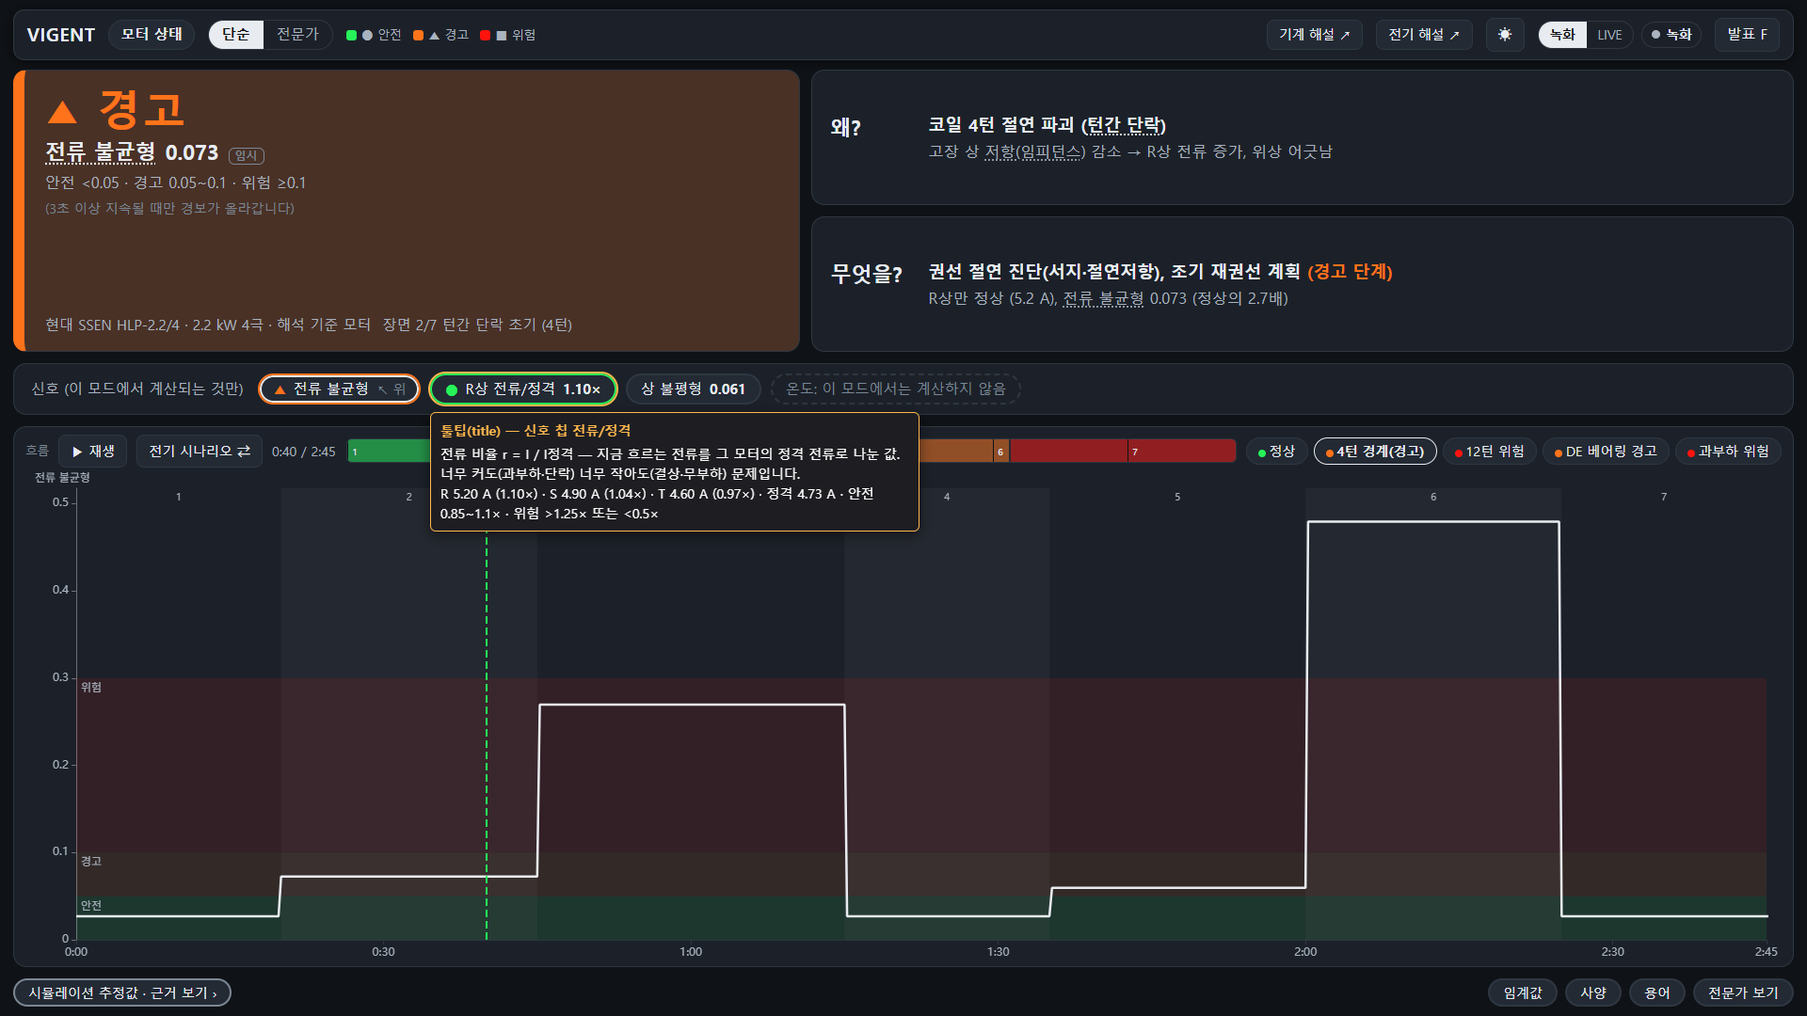
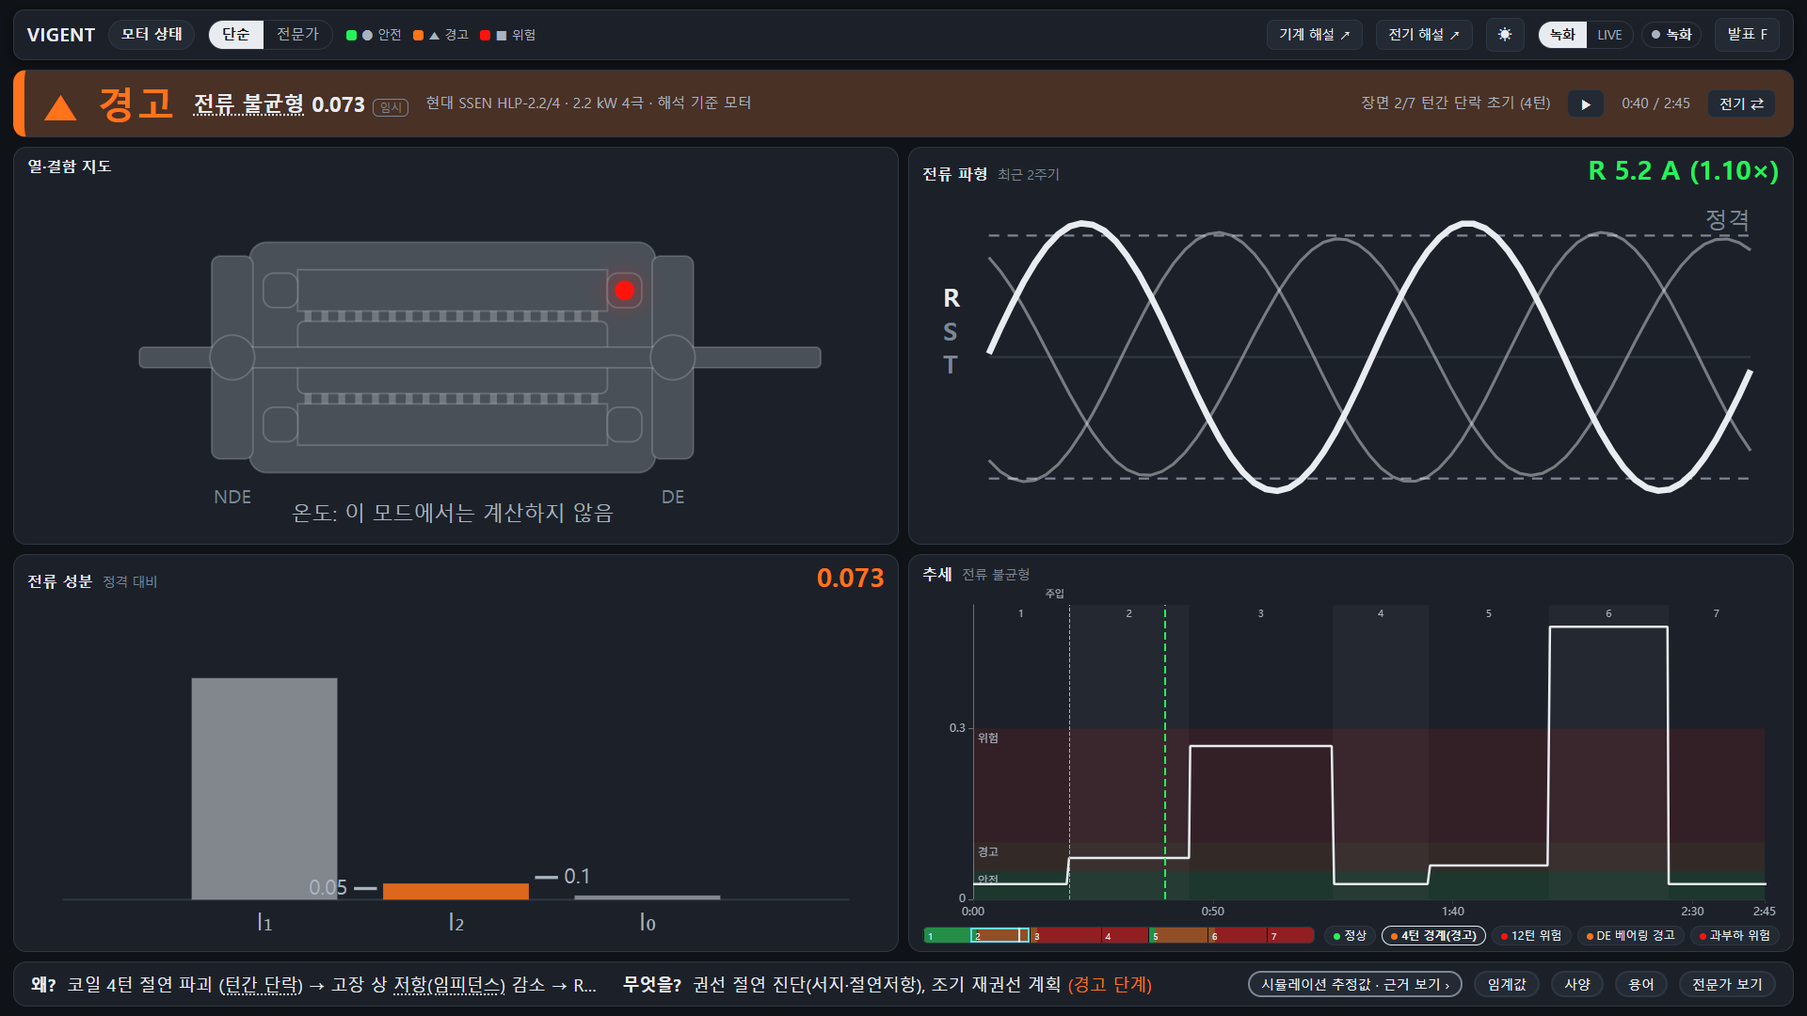
media: dashboard captures on tile layout + Maxwell path resolution after desktop reorg
단순 보기 1b(타일) 기준 대시보드 사진 12장·워크스루·side-by-side 재캡처(index/meta/README 재생성).
바탕화면 정리로 옮겨진 Maxwell 저장소(바탕 화면\모터\권상모터_3D모델링)를 _maxwell_root()(MAXWELL_ROOT → 옛 경로 → 새 경로)로 찾도록 도구·테스트 기본 경로 수정; 미디어팩 사본은 옮겨진 폴더에 동기화.

diff --git a/motor_dt_viz/tools/media/capture_all.py b/motor_dt_viz/tools/media/capture_all.py
@@ -27,12 +27,23 @@ import shutil
 import subprocess
 import sys
 
+def _maxwell_root() -> str:
+    """Maxwell 저장소 위치: MAXWELL_ROOT 환경변수 → 바탕 화면\\권상모터_3D모델링 → 바탕 화면\\모터\\권상모터_3D모델링 (2026-10-26 바탕화면 정리로 이동)."""
+    env = os.environ.get("MAXWELL_ROOT")
+    if env:
+        return env
+    desk = os.path.join(os.path.expanduser("~"), "OneDrive", "바탕 화면")
+    for c in (os.path.join(desk, "권상모터_3D모델링"), os.path.join(desk, "모터", "권상모터_3D모델링")):
+        if os.path.isdir(c):
+            return c
+    return os.path.join(desk, "모터", "권상모터_3D모델링")
+
 HERE = os.path.dirname(os.path.abspath(__file__))
 VIZ = os.path.abspath(os.path.join(HERE, "..", ".."))
 REPO = os.path.abspath(os.path.join(VIZ, ".."))
 sys.path.insert(0, VIZ)
 ISAAC_PY = r"C:\ISSACS~1\python.bat"
-MAXWELL = os.environ.get("MAXWELL_ROOT", os.path.join(os.path.expanduser("~"), "OneDrive", "바탕 화면", "권상모터_3D모델링"))
+MAXWELL = _maxwell_root()
 FONT = r"C:\Windows\Fonts\malgun.ttf"
 FONT_B = r"C:\Windows\Fonts\malgunbd.ttf"
 DATE = "20261026"
@@ -548,7 +559,8 @@ def write_readme(root: str, date: str, meta: dict, sections: dict):
 
 def cmd_desktop(a):
     """바탕화면 사본: ~/OneDrive/바탕 화면/M1_미디어팩_<날짜>/ (사용자 요청 2026-10-26, 저장소 사본과 같은 내용)."""
-    src = out_dir(a.date); dst = os.path.join(os.path.expanduser("~"), "OneDrive", "바탕 화면", f"M1_미디어팩_{a.date}")
+    src = out_dir(a.date); desk = os.path.join(os.path.expanduser("~"), "OneDrive", "바탕 화면")
+    dst = next((d for d in (os.path.join(desk, "모터", f"M1_미디어팩_{a.date}"), os.path.join(desk, f"M1_미디어팩_{a.date}")) if os.path.isdir(d)), os.path.join(desk, "모터", f"M1_미디어팩_{a.date}"))   # 사용자가 옮긴 폴더가 있으면 거기에
     shutil.copytree(src, dst, dirs_exist_ok=True)
     n = sum(len(f) for _, _, f in os.walk(dst)); mb = sum(os.path.getsize(os.path.join(r, f)) for r, _, fs in os.walk(dst) for f in fs) / 1e6
     print(f"desktop: {dst} ({n} files, {mb:.1f} MB)")

diff --git a/motor_dt_viz/tools/electrical/verify_lut_integration.py b/motor_dt_viz/tools/electrical/verify_lut_integration.py
@@ -21,6 +21,17 @@ import copy
 import json
 import math
 import os
+
+def _maxwell_root() -> str:
+    """Maxwell 저장소 위치: MAXWELL_ROOT 환경변수 → 바탕 화면\\권상모터_3D모델링 → 바탕 화면\\모터\\권상모터_3D모델링 (2026-10-26 바탕화면 정리로 이동)."""
+    env = os.environ.get("MAXWELL_ROOT")
+    if env:
+        return env
+    desk = os.path.join(os.path.expanduser("~"), "OneDrive", "바탕 화면")
+    for c in (os.path.join(desk, "권상모터_3D모델링"), os.path.join(desk, "모터", "권상모터_3D모델링")):
+        if os.path.isdir(c):
+            return c
+    return os.path.join(desk, "모터", "권상모터_3D모델링")
 import subprocess
 import sys
 import time
@@ -38,7 +49,7 @@ from engine.config_loader import load  # noqa: E402
 from engine.current_model import CurrentModel  # noqa: E402
 from engine.lut_source import LutSource, default_lut_path  # noqa: E402
 
-MCCM_RESULTS = os.path.join(os.environ.get("MAXWELL_ROOT", r"C:\Users\sunwu\OneDrive\바탕 화면\권상모터_3D모델링"), "maxwell", "results", "mccm_results.json")   # D1: MAXWELL_ROOT 환경변수
+MCCM_RESULTS = os.path.join(_maxwell_root(), "maxwell", "results", "mccm_results.json")   # D1: MAXWELL_ROOT 환경변수
 REPORT = os.path.join(VIZ, "docs", "electrical", "lut_integration_report.md")
 FORBIDDEN = ["motor_dt_viz/config/thresholds.yaml", "motor_dt_viz/config/motors", "motor_dt_viz/engine/thresholds.py",
              "motor_dt_viz/config/live.yaml", "motor_dt_viz/tools/firewall_rules.ps1"]

diff --git a/motor_dt_viz/tools/verify/build_analysis_reference.py b/motor_dt_viz/tools/verify/build_analysis_reference.py
@@ -18,6 +18,17 @@ import hashlib
 import json
 import math
 import os
+
+def _maxwell_root() -> str:
+    """Maxwell 저장소 위치: MAXWELL_ROOT 환경변수 → 바탕 화면\\권상모터_3D모델링 → 바탕 화면\\모터\\권상모터_3D모델링 (2026-10-26 바탕화면 정리로 이동)."""
+    env = os.environ.get("MAXWELL_ROOT")
+    if env:
+        return env
+    desk = os.path.join(os.path.expanduser("~"), "OneDrive", "바탕 화면")
+    for c in (os.path.join(desk, "권상모터_3D모델링"), os.path.join(desk, "모터", "권상모터_3D모델링")):
+        if os.path.isdir(c):
+            return c
+    return os.path.join(desk, "모터", "권상모터_3D모델링")
 import shutil
 import sys
 import time
@@ -33,7 +44,7 @@ from engine.config_loader import load, val  # noqa: E402
 from engine.current_model import CurrentModel  # noqa: E402
 from engine.thermal_model import ThermalModel  # noqa: E402
 
-MAXWELL_DEFAULT = os.environ.get("MAXWELL_ROOT", r"C:\Users\sunwu\OneDrive\바탕 화면\권상모터_3D모델링")   # D1: MAXWELL_ROOT 환경변수 (docs/REPRODUCE.md)
+MAXWELL_DEFAULT = _maxwell_root()   # D1: MAXWELL_ROOT 환경변수 (docs/REPRODUCE.md)
 SCENARIOS = {   # 시나리오 → (턴, R_f, 부하, MCCM 케이스 이름)
     "healthy": (0, None, 1.0, "C0"), "itsc_4turn": (4, 0.1, 1.0, "C1"), "itsc_8turn": (8, 0.1, 1.0, None), "itsc_12turn": (12, 0.1, 1.0, "C3"),
     "itsc_16turn": (16, 0.1, 1.0, "C4"), "itsc_4turn_resistive": (4, 1.0, 1.0, "C1-R"), "itsc_4turn_halfload": (4, 0.1, 0.5, "C1-L"),

diff --git a/motor_dt_viz/tools/verify/sim_vs_maxwell_xlsx.py b/motor_dt_viz/tools/verify/sim_vs_maxwell_xlsx.py
@@ -14,6 +14,17 @@ import hashlib
 import json
 import math
 import os
+
+def _maxwell_root() -> str:
+    """Maxwell 저장소 위치: MAXWELL_ROOT 환경변수 → 바탕 화면\\권상모터_3D모델링 → 바탕 화면\\모터\\권상모터_3D모델링 (2026-10-26 바탕화면 정리로 이동)."""
+    env = os.environ.get("MAXWELL_ROOT")
+    if env:
+        return env
+    desk = os.path.join(os.path.expanduser("~"), "OneDrive", "바탕 화면")
+    for c in (os.path.join(desk, "권상모터_3D모델링"), os.path.join(desk, "모터", "권상모터_3D모델링")):
+        if os.path.isdir(c):
+            return c
+    return os.path.join(desk, "모터", "권상모터_3D모델링")
 import shutil
 import sys
 import time
@@ -27,7 +38,7 @@ OUT_DIR = os.path.join(REPO, "docs", "verification")
 sys.path.insert(0, HERE)
 from sim_vs_analysis import load_run, steady, fnum  # noqa: E402  (정상 상태 평균 규칙 재사용)
 
-MAXWELL = os.environ.get("MAXWELL_ROOT", r"C:\Users\sunwu\OneDrive\바탕 화면\권상모터_3D모델링")
+MAXWELL = _maxwell_root()
 SCEN = ["healthy", "itsc_4turn", "itsc_8turn", "itsc_12turn", "itsc_16turn", "itsc_4turn_resistive", "itsc_4turn_halfload"]
 TURNS = {"healthy": 0, "itsc_4turn": 4, "itsc_8turn": 8, "itsc_12turn": 12, "itsc_16turn": 16, "itsc_4turn_resistive": 4, "itsc_4turn_halfload": 4}
 RF = {"healthy": 0.1, "itsc_4turn": 0.1, "itsc_8turn": 0.1, "itsc_12turn": 0.1, "itsc_16turn": 0.1, "itsc_4turn_resistive": 1.0, "itsc_4turn_halfload": 0.1}

diff --git a/motor_dt_viz/tools/electrical/import_lut.py b/motor_dt_viz/tools/electrical/import_lut.py
@@ -9,13 +9,24 @@ import argparse
 import hashlib
 import json
 import os
+
+def _maxwell_root() -> str:
+    """Maxwell 저장소 위치: MAXWELL_ROOT 환경변수 → 바탕 화면\\권상모터_3D모델링 → 바탕 화면\\모터\\권상모터_3D모델링 (2026-10-26 바탕화면 정리로 이동)."""
+    env = os.environ.get("MAXWELL_ROOT")
+    if env:
+        return env
+    desk = os.path.join(os.path.expanduser("~"), "OneDrive", "바탕 화면")
+    for c in (os.path.join(desk, "권상모터_3D모델링"), os.path.join(desk, "모터", "권상모터_3D모델링")):
+        if os.path.isdir(c):
+            return c
+    return os.path.join(desk, "모터", "권상모터_3D모델링")
 import re
 import sys
 import time
 
 HERE = os.path.dirname(os.path.abspath(__file__))
 ROOT = os.path.abspath(os.path.join(HERE, "..", ".."))
-MAXWELL_ROOT = os.environ.get("MAXWELL_ROOT", r"C:\Users\sunwu\OneDrive\바탕 화면\권상모터_3D모델링")   # D1(2026-10-21): 환경변수로 Maxwell 저장소 위치 지정 (docs/REPRODUCE.md)
+MAXWELL_ROOT = _maxwell_root()   # D1(2026-10-21): 환경변수로 Maxwell 저장소 위치 지정 (docs/REPRODUCE.md)
 DEFAULT_SRC = os.path.join(MAXWELL_ROOT, "maxwell", "results", "mccm_lut.json")
 OUT_DIR = os.path.join(ROOT, "data", "electrical")
 

diff --git a/motor_dt_viz/tests/test_lut_source.py b/motor_dt_viz/tests/test_lut_source.py
@@ -9,7 +9,9 @@ import pytest
 from engine.lut_source import LutSource, default_lut_path
 
 ROOT = os.path.dirname(os.path.dirname(os.path.abspath(__file__)))
-MCCM_RESULTS = r"C:\Users\sunwu\OneDrive\바탕 화면\권상모터_3D모델링\maxwell\results\mccm_results.json"
+_DESK = os.path.join(os.path.expanduser("~"), "OneDrive", "바탕 화면")
+_MAXWELL = os.environ.get("MAXWELL_ROOT") or next((c for c in (os.path.join(_DESK, "권상모터_3D모델링"), os.path.join(_DESK, "모터", "권상모터_3D모델링")) if os.path.isdir(c)), os.path.join(_DESK, "모터", "권상모터_3D모델링"))
+MCCM_RESULTS = os.path.join(_MAXWELL, "maxwell", "results", "mccm_results.json")   # 2026-10-26: 바탕화면 정리로 모터/ 아래로 이동 — 환경변수 → 옛 경로 → 새 경로
 
 
 @pytest.fixture(scope="module")

diff --git a/motor_dt_viz/tests/test_sim_vs_maxwell_xlsx.py b/motor_dt_viz/tests/test_sim_vs_maxwell_xlsx.py
@@ -85,4 +85,9 @@ def test_desktop_copy_exists(sm):
     p = sm.get("desktop_copy")
     if not p:
         pytest.skip("바탕화면 사본 생략(--no-desktop)")
-    assert os.path.exists(p) and os.path.getsize(p) > 10_000
+    desk = os.path.join(os.path.expanduser("~"), "OneDrive", "바탕 화면")
+    cands = [p, os.path.join(desk, "모터", os.path.basename(p))]            # 2026-10-26: 사용자가 바탕화면을 정리해 모터/ 로 옮김
+    hit = next((c for c in cands if os.path.exists(c)), None)
+    if hit is None:
+        pytest.skip(f"바탕화면 사본이 옮겨지거나 지워짐: {cands}")
+    assert os.path.getsize(hit) > 10_000

diff --git a/docs/media/20261026/index.md b/docs/media/20261026/index.md
@@ -1,9 +1,9 @@
 # 보고용 미디어 팩 — 2026-10-26
 
-M1 (HLP-2.2/4) 디지털 트윈 — Isaac Sim 4.5 장면·HUD·대시보드·해석 그림. 커밋 DT `166ba85` · Maxwell `3c4e22e` · 시드 없음(결정적) · 배속 1×.
+M1 (HLP-2.2/4) 디지털 트윈 — Isaac Sim 4.5 장면·HUD·대시보드·해석 그림. 커밋 DT `5e199d5` · Maxwell `3c4e22e` · 시드 없음(결정적) · 배속 1×.
 모든 숫자는 엔진 출력(state.csv)·검증 산출물·LUT 값이며 연출용 숫자는 없다. 파일명은 ASCII, 설명은 이 표의 캡션. 규격·재현·수동 캡처 체크리스트는 `README.md`.
 
-![contact sheet](contact_sheet.png)  (57 장 썸네일)
+![contact sheet](contact_sheet.png)  (58 장 썸네일)
 
 ## Isaac Sim 사진 (13 장) — `isaac/`
 
@@ -41,19 +41,20 @@ M1 (HLP-2.2/4) 디지털 트윈 — Isaac Sim 4.5 장면·HUD·대시보드·해
 
 | 파일 | 해상도 | URL | 캡션 | 22 kW 문구 |
 |---|---|---|---|---|
-| [01_simple_home_4turn.png](dashboard/01_simple_home_4turn.png) | 1920x1080 | `/?r=1793001110261#/status?m=M1&t=40` | 단순 보기 첫 화면 — 경고 · 전류 불균형 0.073 · 왜?/무엇을? · 신호 칩 · 흐름 (전기 40 s, 턴간 단락 4턴) | 없음 |
-| [02_hero_term_tooltip.png](dashboard/02_hero_term_tooltip.png) | 1920x1080 | `/?r=1793001110261#/status?m=M1&t=40` | 영웅 원인 신호 '전류 불균형' 의 툴팁(정식 용어 역상 전류비 I₂/I₁ + 설명)을 오버레이로 표시 — 툴팁 원문: “역상 전류비 I₂/I₁ — 세 가닥 전류가 서로 얼마나 틀어졌는지 나타내는 비율. 권선 단락·전압 불평형에서 커집니다.” | 없음 |
-| [03_signal_chip_tooltip.png](dashboard/03_signal_chip_tooltip.png) | 1920x1080 | `/?r=1793001110261#/status?m=M1&t=40` | 신호 띠 '전류/정격' 칩 툴팁 — 상별 전류(A)·정격·임계 구간을 오버레이로 표시 — 툴팁 원문: “전류 비율 r = I / I정격 — 지금 흐르는 전류를 그 모터의 정격 전류로 나눈 값. 너무 커도(과부하·단락) 너무 작아도(결상·무부하) 문제입니다.
-R 5.20 A (1.10×) · S 4.90 A (1.04×) · T 4.60 A (0.97×) · 정격 4.73 A · 안전 0.85~1.1× · 위험 >1.25× 또는 <0.5×” | 없음 |
-| [04_simple_12turn_danger.png](dashboard/04_simple_12turn_danger.png) | 1920x1080 | `/?r=1793001113519#/status?m=M1&t=60` | 단순 보기 — 위험 · 12턴 (60 s): 전류 불균형 0.270, 무엇을? 정지 후 재권선 | 없음 |
-| [05_simple_healthy.png](dashboard/05_simple_healthy.png) | 1920x1080 | `/?r=1793001116664#/status?m=M1&t=15` | 단순 보기 — 안전 · 정상 (15 s): 기준선, 전류 불균형 0.027 | 없음 |
-| [06_evidence_drawer_table.png](dashboard/06_evidence_drawer_table.png) | 1920x1080 | `/?r=1793001119814#/status?m=M1&t=40&drawer=1` | 근거 서랍 ① 정직성 4줄 ② 해석 근거 비교 — 시뮬값 있는 행만(결함분·I₂/I_n·I_f·P_loop 채워짐, — 1행 접힘) | 보임 |
-| [07_evidence_drawer_trace.png](dashboard/07_evidence_drawer_trace.png) | 1920x1080 | `/?r=1793001119814#/status?m=M1&t=40&drawer=1` | 근거 서랍 ③ 근거 사슬(표시량 → 엔진 → 파일 sha → 해석 단계 → 등급) ④ 한계 | 보임 |
-| [08_thresholds_sheet.png](dashboard/08_thresholds_sheet.png) | 1920x1080 | `/?r=1793001124142#/status?m=M1&t=40&tab=thr` | 임계값 기준표 시트 — 안전/경고/위험 경계 + 근거 + 쉬운 설명 열 | 없음 |
-| [09_simple_mech_bearing.png](dashboard/09_simple_mech_bearing.png) | 1920x1080 | `/?r=1793001127789#/status?m=M1&t=40&mode=mechanical` | 단순 보기 기계 모드 — DE 베어링 열화 장면(40 s): 온도·진동·베어링 칩, DE 베어링 온도 추세 | 없음 |
-| [10_expert_view.png](dashboard/10_expert_view.png) | 1920x1080 | `/?r=1793001131425#/status?m=M1&t=40&view=expert` | 전문가 보기(기존 보드) — 카드·게이지·원인과 조치·해석 근거 비교(엔진 값 채움)·추세·기준표 | 보임 |
-| [11_provisional_tag_tooltip.png](dashboard/11_provisional_tag_tooltip.png) | 1920x1080 | `/?r=1793001135106#/status?m=M1&t=40` | 영웅 '임시' 태그 툴팁(실측 기준선 확보 전까지 참고 기준)을 오버레이로 표시 — 툴팁 원문: “실측 기준선 확보 전까지 참고 기준입니다” | 없음 |
-| [12_export_csv.png](dashboard/12_export_csv.png) | 1920x1080 | `/?r=1793001138254#/status?m=M1&t=40&drawer=1` | 근거 서랍 '비교 내보내기' 직후 — 다운로드 파일 export_20261026_165221.csv (V2 형식 CSV, 4턴 40 s) | 보임 |
+| [01_simple_home_4turn.png](dashboard/01_simple_home_4turn.png) | 1920x1080 | `/?r=1793019536616#/status?m=M1&t=40` | 단순 보기 첫 화면 — 상태 띠(경고 · 전류 불균형 0.073) + 그림 타일 4(열·결함 지도 · 전류 파형 · 전류 성분 · 추세) + 하단 띠(왜/무엇을/근거) (전기 40 s, 턴간 단락 4턴) | 없음 |
+| [02_hero_term_tooltip.png](dashboard/02_hero_term_tooltip.png) | 1920x1080 | `/?r=1793019536616#/status?m=M1&t=40` | 상태 띠 원인 신호 '전류 불균형' 의 툴팁(정식 용어 역상 전류비 I₂/I₁ + 설명)을 오버레이로 표시 — 툴팁 원문: “역상 전류비 I₂/I₁ — 세 가닥 전류가 서로 얼마나 틀어졌는지 나타내는 비율. 권선 단락·전압 불평형에서 커집니다.” | 없음 |
+| [03_threshold_tooltip.png](dashboard/03_threshold_tooltip.png) | 1920x1080 | `/?r=1793019536616#/status?m=M1&t=40` | 상태 띠 원인 값 툴팁 — 임계 구간(안전·경고·위험)과 "3초 이상 지속될 때만 경보" 각주를 오버레이로 표시 — 툴팁 원문: “역상 전류비 I₂/I₁ — 세 가닥 전류가 서로 얼마나 틀어졌는지 나타내는 비율. 권선 단락·전압 불평형에서 커집니다.
+안전 <0.05 · 경고 0.05~0.1 · 위험 ≥0.1
+3초 이상 지속될 때만 경보가 올라갑니다” | 없음 |
+| [04_simple_12turn_danger.png](dashboard/04_simple_12turn_danger.png) | 1920x1080 | `/?r=1793019539914#/status?m=M1&t=60` | 단순 보기 — 위험 · 12턴 (60 s): 전류 불균형 0.270, R상 파형 굵게(1.56×), I₂ 막대 빨강, 단락 코일 발광 점 커짐 | 없음 |
+| [05_simple_healthy.png](dashboard/05_simple_healthy.png) | 1920x1080 | `/?r=1793019543091#/status?m=M1&t=15` | 단순 보기 — 안전 · 정상 (15 s): 기준선, 전류 불균형 0.027 | 없음 |
+| [06_evidence_drawer_table.png](dashboard/06_evidence_drawer_table.png) | 1920x1080 | `/?r=1793019546281#/status?m=M1&t=40&drawer=1` | 근거 서랍 ① 정직성 4줄 ② 해석 근거 비교 — 시뮬값 있는 행만(결함분·I₂/I_n·I_f·P_loop 채워짐, — 1행 접힘) | 보임 |
+| [07_evidence_drawer_trace.png](dashboard/07_evidence_drawer_trace.png) | 1920x1080 | `/?r=1793019546281#/status?m=M1&t=40&drawer=1` | 근거 서랍 ③ 근거 사슬(표시량 → 엔진 → 파일 sha → 해석 단계 → 등급) ④ 한계 | 보임 |
+| [08_thresholds_sheet.png](dashboard/08_thresholds_sheet.png) | 1920x1080 | `/?r=1793019550752#/status?m=M1&t=40&tab=thr` | 임계값 기준표 시트 — 안전/경고/위험 경계 + 근거 + 쉬운 설명 열 | 없음 |
+| [09_simple_mech_bearing.png](dashboard/09_simple_mech_bearing.png) | 1920x1080 | `/?r=1793019554436#/status?m=M1&t=40&mode=mechanical` | 단순 보기 기계 모드 — DE 베어링 열화 장면(40 s): 열·결함 지도(온도 색), 진동 막대, 베어링 충격성·고주파 막대, 추세 | 없음 |
+| [10_expert_view.png](dashboard/10_expert_view.png) | 1920x1080 | `/?r=1793019558103#/status?m=M1&t=40&view=expert` | 전문가 보기(기존 보드) — 카드·게이지·원인과 조치·해석 근거 비교(엔진 값 채움)·추세·기준표 | 보임 |
+| [11_provisional_tag_tooltip.png](dashboard/11_provisional_tag_tooltip.png) | 1920x1080 | `/?r=1793019561788#/status?m=M1&t=40` | 상태 띠 '임시' 태그 툴팁(실측 기준선 확보 전까지 참고 기준)을 오버레이로 표시 — 툴팁 원문: “실측 기준선 확보 전까지 참고 기준입니다” | 없음 |
+| [12_export_csv.png](dashboard/12_export_csv.png) | 1920x1080 | `/?r=1793019564967#/status?m=M1&t=40&drawer=1` | 근거 서랍 '비교 내보내기' 직후 — 다운로드 파일 export_20261026_215928.csv (V2 형식 CSV, 4턴 40 s) | 보임 |
 
 제외(22 kW 자산·문구): #/electrical · #/mechanical 해설 화면 — 이전 22 kW 녹화 영상(public/media/integrated_autoplay.mp4)을 재생 — 22 kW 자산 사용 금지. 상태 보드(단순 보기·전문가 보기)만 캡처
 
@@ -70,7 +71,7 @@ R 5.20 A (1.10×) · S 4.90 A (1.04×) · T 4.60 A (0.97×) · 정격 4.73 A · 
 | [gif_01_orbit.gif](video/gif_01_orbit.gif) |  | 01_exterior_orbit.mp4 | 01_exterior_orbit 의 0~10 s (12 fps) | 3.43 |
 | [gif_02_itsc_glow.gif](video/gif_02_itsc_glow.gif) |  | 03_electrical_fault.mp4 | 03_electrical_fault 의 18~46 s (12 fps) | 5.85 |
 | [07_dashboard_walkthrough.mp4](video/07_dashboard_walkthrough.mp4) | 55.2 |  | 대시보드 워크스루 — 첫 화면(15 s) → 4턴 칩 → 게이지 → 해석 근거 비교 → 근거 보기 → 12턴 칩 → 맨 위 (Edge 창 화면 녹화, 1920×1080) | 2.2 |
-| [08_side_by_side.mp4](video/08_side_by_side.mp4) |  |  | Isaac 전기 시나리오 녹화(왼쪽, 장면 0~60 s)와 대시보드 상태 보드 재생(오른쪽, 같은 시각) 나란히 — 동기는 재생 클릭 벽시계 기준 ±0.5 s | 3.0 |
+| [08_side_by_side.mp4](video/08_side_by_side.mp4) |  |  | Isaac 전기 시나리오 녹화(왼쪽, 장면 0~60 s)와 대시보드 상태 보드 재생(오른쪽, 같은 시각) 나란히 — 동기는 재생 클릭 벽시계 기준 ±0.5 s | 3.1 |
 
 ## 해석·검증 그림 (23 장) — `figures/`
 

diff --git a/CLAUDE.md b/CLAUDE.md
@@ -7,7 +7,7 @@
 - 해석 근거: RMxprt v2m2 → MCCM/LUT v2 → 2D 와전류 FEM lite(학생판) 정합. 정본 요약은 `docs/verification_summary.md`, 대조 보고서는 `docs/verification/sim_vs_analysis_report.md`.
 
 ## 두 저장소 경계
-- Maxwell 저장소 `C:\Users\sunwu\OneDrive\바탕 화면\권상모터_3D모델링`(github `hoist-motor-maxwell`)은 **읽기 전용**. 위치는 환경변수 `MAXWELL_ROOT` 로 바꿀 수 있다(`import_lut.py`, `verify_lut_integration.py`, `build_analysis_reference.py`, `datasheet_to_yaml.py`).
+- Maxwell 저장소 `C:\Users\sunwu\OneDrive\바탕 화면\모터\권상모터_3D모델링`(github `hoist-motor-maxwell`)은 **읽기 전용**. 위치는 환경변수 `MAXWELL_ROOT` 로 바꿀 수 있다(`import_lut.py`, `verify_lut_integration.py`, `build_analysis_reference.py`, `datasheet_to_yaml.py`).
 - M1 입력 복사본 `assets/motors/M1/inputs/`(datasheet_v4.yaml·geometry_check_v2.json·rmxprt_v2m2.json·PROVENANCE.md)가 **DT 쪽 입력 정본**이다. 카탈로그 PDF 는 Maxwell `docs/sources/`(gitignore)에만 있으므로 PDF 없이 `datasheet_to_yaml.py` 를 돌려 `datasheet_v4.yaml` 을 덮어쓰지 말 것.
 - 금지(승인 없이): `config/thresholds.yaml` 숫자, `config/motors/M1.yaml`, `config/electrical.yaml`, LUT(`data/electrical/*.json`), 판정 코드(`engine/thresholds.py`)·엔진 수치, 포트·방화벽(`config/live.yaml`), AI Hub 키.
 
